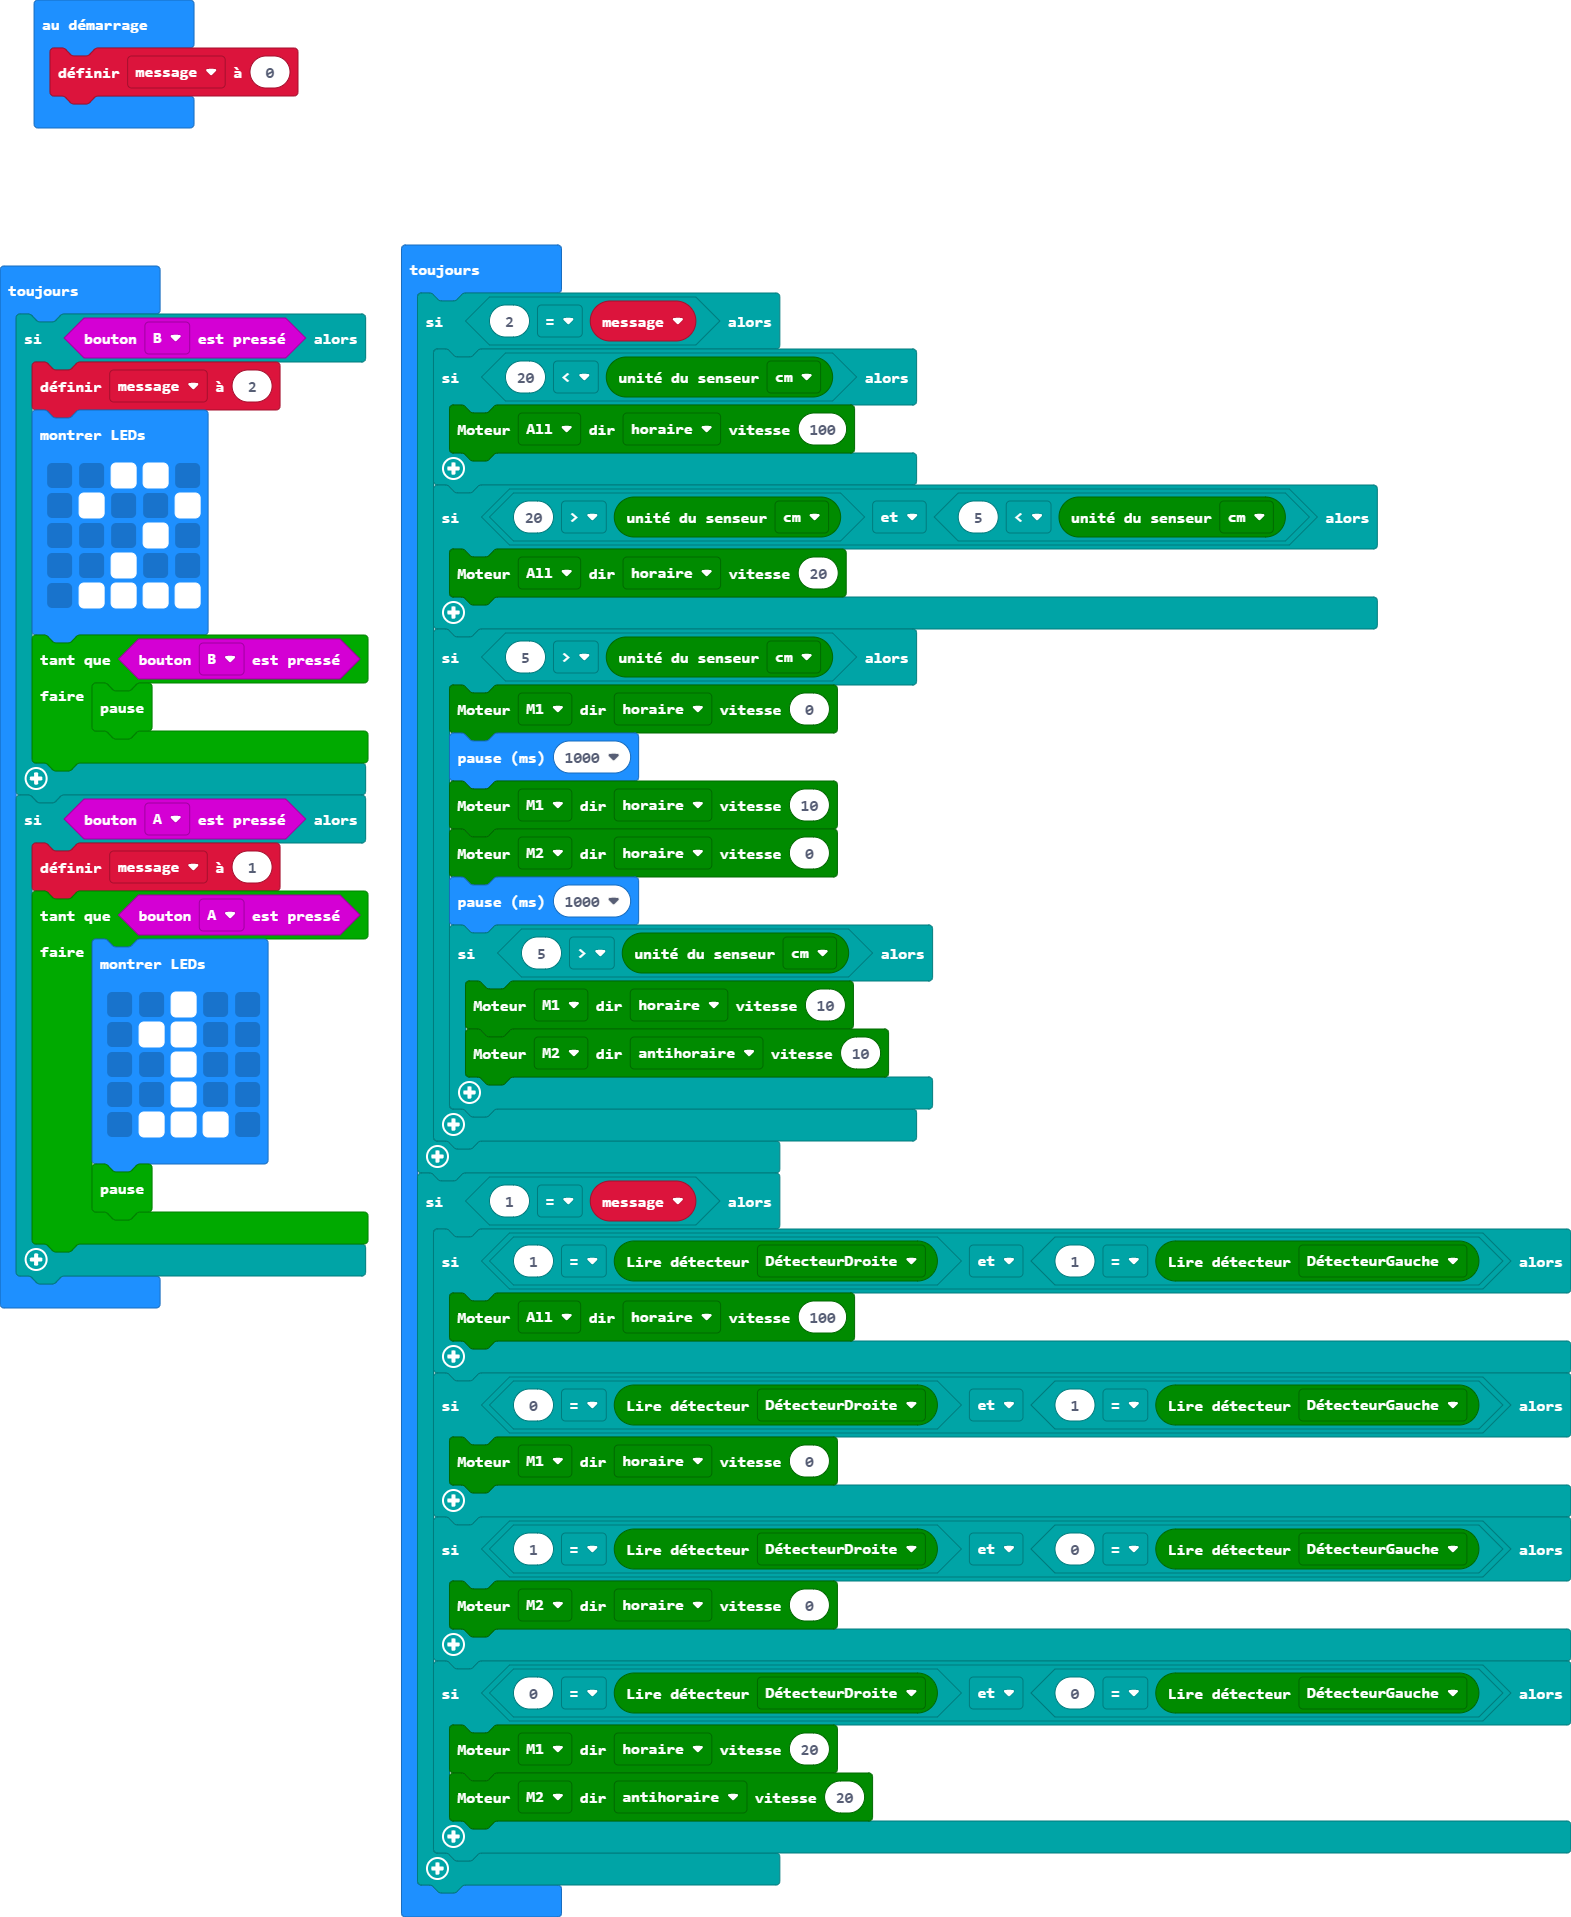
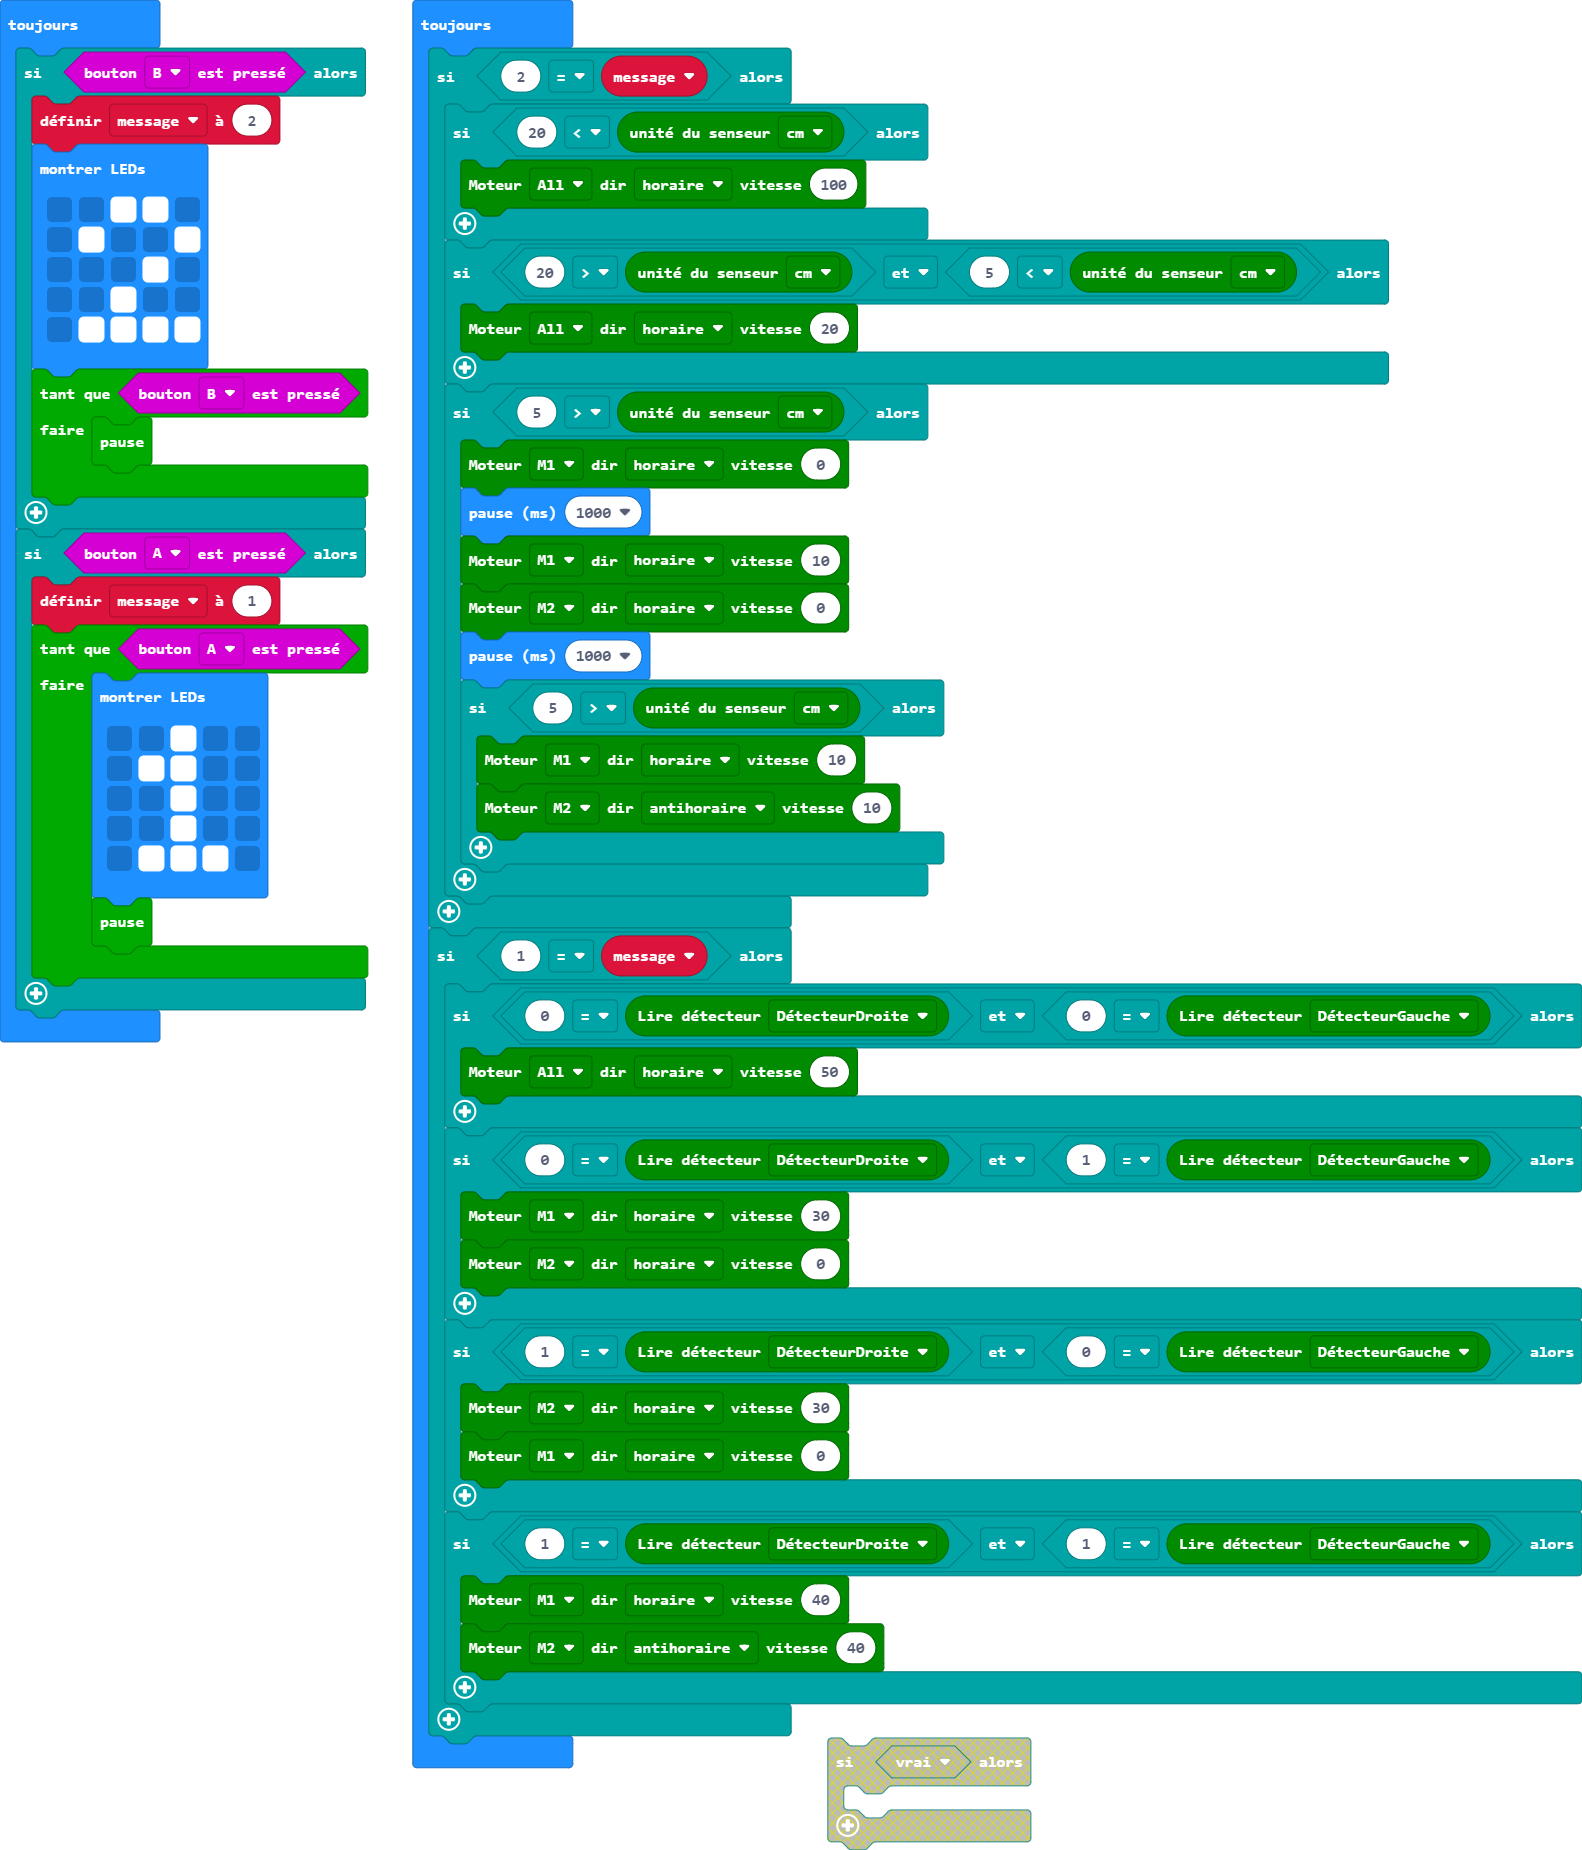
Mise à jour main.blocks, main.ts

diff --git a/main.ts b/main.ts
@@ -48,18 +48,20 @@ basic.forever(function () {
         }
     }
     if (1 == message) {
-        if (1 == maqueen.readPatrol(maqueen.Patrol.PatrolRight) && 1 == maqueen.readPatrol(maqueen.Patrol.PatrolLeft)) {
-            maqueen.motorRun(maqueen.Motors.All, maqueen.Dir.CW, 100)
+        if (0 == maqueen.readPatrol(maqueen.Patrol.PatrolRight) && 0 == maqueen.readPatrol(maqueen.Patrol.PatrolLeft)) {
+            maqueen.motorRun(maqueen.Motors.All, maqueen.Dir.CW, 50)
         }
         if (0 == maqueen.readPatrol(maqueen.Patrol.PatrolRight) && 1 == maqueen.readPatrol(maqueen.Patrol.PatrolLeft)) {
-            maqueen.motorRun(maqueen.Motors.M1, maqueen.Dir.CW, 0)
-        }
-        if (1 == maqueen.readPatrol(maqueen.Patrol.PatrolRight) && 0 == maqueen.readPatrol(maqueen.Patrol.PatrolLeft)) {
+            maqueen.motorRun(maqueen.Motors.M1, maqueen.Dir.CW, 30)
             maqueen.motorRun(maqueen.Motors.M2, maqueen.Dir.CW, 0)
         }
-        if (0 == maqueen.readPatrol(maqueen.Patrol.PatrolRight) && 0 == maqueen.readPatrol(maqueen.Patrol.PatrolLeft)) {
-            maqueen.motorRun(maqueen.Motors.M1, maqueen.Dir.CW, 20)
-            maqueen.motorRun(maqueen.Motors.M2, maqueen.Dir.CCW, 20)
+        if (1 == maqueen.readPatrol(maqueen.Patrol.PatrolRight) && 0 == maqueen.readPatrol(maqueen.Patrol.PatrolLeft)) {
+            maqueen.motorRun(maqueen.Motors.M2, maqueen.Dir.CW, 30)
+            maqueen.motorRun(maqueen.Motors.M1, maqueen.Dir.CW, 0)
+        }
+        if (1 == maqueen.readPatrol(maqueen.Patrol.PatrolRight) && 1 == maqueen.readPatrol(maqueen.Patrol.PatrolLeft)) {
+            maqueen.motorRun(maqueen.Motors.M1, maqueen.Dir.CW, 40)
+            maqueen.motorRun(maqueen.Motors.M2, maqueen.Dir.CCW, 40)
         }
     }
 })
